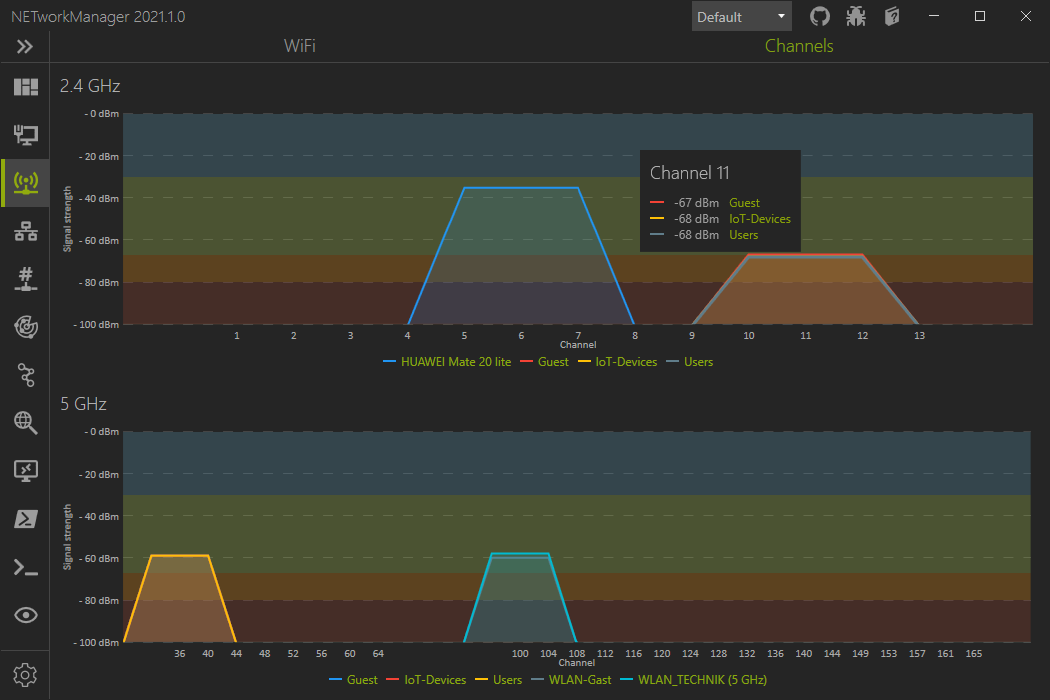
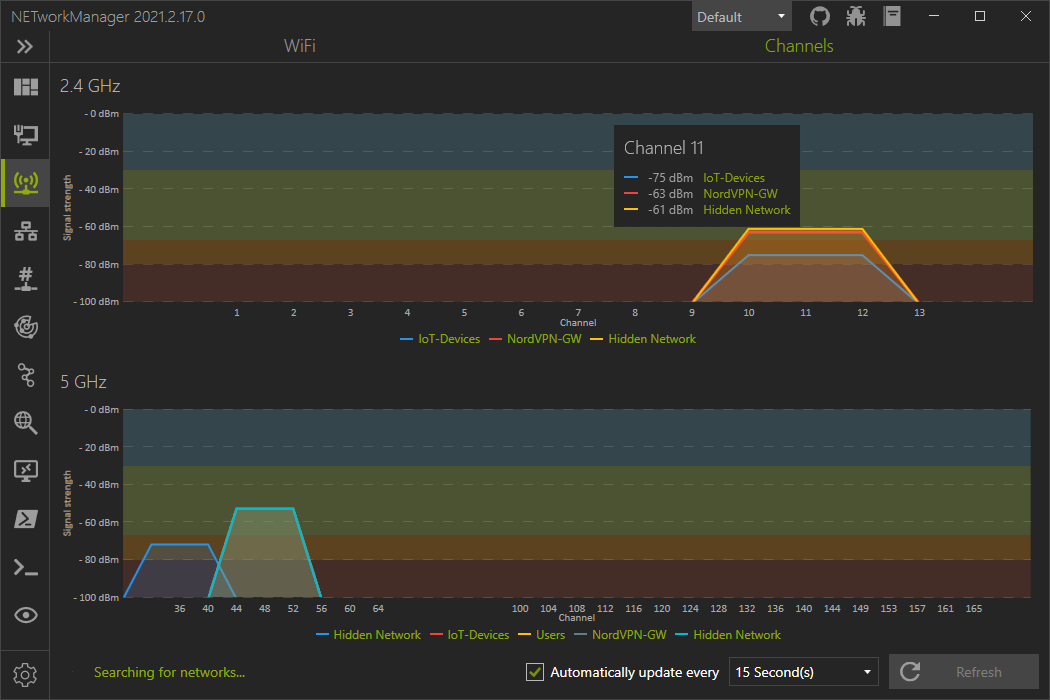
Issue/445 (#488)
* Fix #445 and Fix #486

* Fix #487

* Update docs and changelog

diff --git a/Source/NETworkManager/Views/WiFiView.xaml b/Source/NETworkManager/Views/WiFiView.xaml
@@ -152,24 +152,7 @@
                                     <ColumnDefinition Width="10" />
                                     <ColumnDefinition Width="Auto" />
                                 </Grid.ColumnDefinitions>
-                                <TextBlock Grid.Column="0" Grid.Row="0" Text="{x:Static localization:Strings.Networks}" Style="{StaticResource HeaderTextBlock}" Margin="0,0,0,0" />
-                                <WrapPanel Grid.Column="2" Grid.Row="0" Orientation="Horizontal" VerticalAlignment="Center" HorizontalAlignment="Right">
-                                    <CheckBox IsChecked="{Binding AutoRefresh}" Content="{x:Static localization:Strings.AutomaticallyUpdateEvery}" Margin="0,0,10,0"/>
-                                    <ComboBox ItemsSource="{Binding AutoRefreshTimes}" SelectedItem="{Binding SelectedAutoRefreshTime}" MinWidth="150">
-                                        <ComboBox.ItemTemplate>
-                                            <DataTemplate DataType="utilities:AutoRefreshTimeInfo">
-                                                <TextBlock>
-                                                    <TextBlock.Text>
-                                                        <MultiBinding StringFormat="{}{0} {1}">
-                                                            <Binding Path="Value" />
-                                                            <Binding Path="TimeUnit" Converter="{StaticResource AutoRefreshTimeToStringConverter}" />
-                                                        </MultiBinding>
-                                                    </TextBlock.Text>
-                                                </TextBlock>
-                                            </DataTemplate>
-                                        </ComboBox.ItemTemplate>
-                                    </ComboBox>
-                                </WrapPanel>
+                                <TextBlock Grid.Column="0" Grid.Row="0" Text="{x:Static localization:Strings.Networks}" Style="{StaticResource HeaderTextBlock}" Margin="0,0,0,0" />                                
                                 <CheckBox Grid.Column="4" Grid.Row="0" Content="{x:Static localization:Strings.GHz2dot4}" IsChecked="{Binding Show2dot4GHzNetworks}" />
                                 <CheckBox Grid.Column="6" Grid.Row="0" Content="{x:Static localization:Strings.GHz5}" IsChecked="{Binding Show5GHzNetworks}" />
                                 <TextBox x:Name="TextBoxSearch" Grid.Column="8" Grid.Row="0" Width="250" Text="{Binding Search, UpdateSourceTrigger=PropertyChanged}" Style="{StaticResource SearchTextBox}" />
@@ -301,7 +284,35 @@
                                 <TextBlock Text="{x:Static localization:Strings.SearchingForNetworksDots}" Style="{StaticResource MessageTextBlock}" />
                             </StackPanel>
                             <Grid Grid.Row="4">
-                                <Button Grid.Column="0" Grid.Row="0" Command="{Binding ScanNetworksCommand}" VerticalAlignment="Bottom" HorizontalAlignment="Right">
+                                <Grid.ColumnDefinitions>
+                                    <ColumnDefinition Width="Auto" />
+                                    <ColumnDefinition Width="10" />
+                                    <ColumnDefinition Width="*" />
+                                    <ColumnDefinition Width="10" />
+                                    <ColumnDefinition Width="Auto" />
+                                </Grid.ColumnDefinitions>
+                                <WrapPanel Grid.Column="0" Grid.Row="0" Orientation="Horizontal" VerticalAlignment="Center" HorizontalAlignment="Center">
+                                    <loadingIndicators:LoadingIndicator IsActive="True" Style="{DynamicResource LoadingIndicatorPulseStyle}" Visibility="{Binding IsBackgroundSearchRunning, Converter={StaticResource BooleanToVisibilityCollapsedConverter}}" Width="24" Height="24" VerticalAlignment="Center" SpeedRatio="1" Margin="0,0,10,0" />
+                                    <TextBlock Style="{StaticResource AccentTextBlock}" Visibility="{Binding DisplayStatusMessage, Converter={StaticResource BooleanToVisibilityCollapsedConverter}}" Text="{Binding StatusMessage}" VerticalAlignment="Center" />
+                                </WrapPanel>
+                                <WrapPanel Grid.Column="2" Grid.Row="0" Orientation="Horizontal" VerticalAlignment="Center" HorizontalAlignment="Right">
+                                    <CheckBox IsChecked="{Binding AutoRefresh}" Content="{x:Static localization:Strings.AutomaticallyUpdateEvery}" Margin="0,0,10,0"/>
+                                    <ComboBox ItemsSource="{Binding AutoRefreshTimes}" SelectedItem="{Binding SelectedAutoRefreshTime}" MinWidth="150">
+                                        <ComboBox.ItemTemplate>
+                                            <DataTemplate DataType="utilities:AutoRefreshTimeInfo">
+                                                <TextBlock>
+                                                    <TextBlock.Text>
+                                                        <MultiBinding StringFormat="{}{0} {1}">
+                                                            <Binding Path="Value" />
+                                                            <Binding Path="TimeUnit" Converter="{StaticResource AutoRefreshTimeToStringConverter}" />
+                                                        </MultiBinding>
+                                                    </TextBlock.Text>
+                                                </TextBlock>
+                                            </DataTemplate>
+                                        </ComboBox.ItemTemplate>
+                                    </ComboBox>
+                                </WrapPanel>
+                                <Button Grid.Column="4" Grid.Row="0" Command="{Binding ScanNetworksCommand}">
                                     <Button.Style>
                                         <Style TargetType="{x:Type Button}" BasedOn="{StaticResource ImageWithTextButton}">
                                             <Style.Triggers>
@@ -330,7 +341,6 @@
                                     </Button.Content>
                                 </Button>
                             </Grid>
-
                         </Grid>
                     </Grid>
                     <!-- Reload Adapter -->
@@ -369,6 +379,8 @@
                             <RowDefinition Height="20" />
                             <RowDefinition Height="Auto" />
                             <RowDefinition Height="*" />
+                            <RowDefinition Height="10" />
+                            <RowDefinition Height="Auto" />
                         </Grid.RowDefinitions>
                         <TextBlock Grid.Row="0" Text="{x:Static localization:Strings.GHz2dot4}" Style="{StaticResource HeaderTextBlock}" />
                         <liveChart:CartesianChart Grid.Row="1" Series="{Binding Radio1Series}" LegendLocation="Bottom" DisableAnimations="True">
@@ -454,6 +466,65 @@
                                 </liveChart:Axis>
                             </liveChart:CartesianChart.AxisY>
                         </liveChart:CartesianChart>
+
+                        <Grid Grid.Row="6">
+                            <Grid.ColumnDefinitions>
+                                <ColumnDefinition Width="Auto" />
+                                <ColumnDefinition Width="10" />
+                                <ColumnDefinition Width="*" />
+                                <ColumnDefinition Width="10" />
+                                <ColumnDefinition Width="Auto" />
+                            </Grid.ColumnDefinitions>
+                            <WrapPanel Grid.Column="0" Grid.Row="0" Orientation="Horizontal" VerticalAlignment="Center" HorizontalAlignment="Center">
+                                <loadingIndicators:LoadingIndicator IsActive="True" Style="{DynamicResource LoadingIndicatorPulseStyle}" Visibility="{Binding IsBackgroundSearchRunning, Converter={StaticResource BooleanToVisibilityCollapsedConverter}}" Width="24" Height="24" VerticalAlignment="Center" SpeedRatio="1" Margin="0,0,10,0" />
+                                <TextBlock Style="{StaticResource AccentTextBlock}" Visibility="{Binding DisplayStatusMessage, Converter={StaticResource BooleanToVisibilityCollapsedConverter}}" Text="{Binding StatusMessage}" VerticalAlignment="Center" />
+                            </WrapPanel>
+                            <WrapPanel Grid.Column="2" Grid.Row="0" Orientation="Horizontal" VerticalAlignment="Center" HorizontalAlignment="Right">
+                                <CheckBox IsChecked="{Binding AutoRefresh}" Content="{x:Static localization:Strings.AutomaticallyUpdateEvery}" Margin="0,0,10,0"/>
+                                <ComboBox ItemsSource="{Binding AutoRefreshTimes}" SelectedItem="{Binding SelectedAutoRefreshTime}" MinWidth="150">
+                                    <ComboBox.ItemTemplate>
+                                        <DataTemplate DataType="utilities:AutoRefreshTimeInfo">
+                                            <TextBlock>
+                                                <TextBlock.Text>
+                                                    <MultiBinding StringFormat="{}{0} {1}">
+                                                        <Binding Path="Value" />
+                                                        <Binding Path="TimeUnit" Converter="{StaticResource AutoRefreshTimeToStringConverter}" />
+                                                    </MultiBinding>
+                                                </TextBlock.Text>
+                                            </TextBlock>
+                                        </DataTemplate>
+                                    </ComboBox.ItemTemplate>
+                                </ComboBox>
+                            </WrapPanel>
+                            <Button Grid.Column="4" Grid.Row="0" Command="{Binding ScanNetworksCommand}">
+                                <Button.Style>
+                                    <Style TargetType="{x:Type Button}" BasedOn="{StaticResource ImageWithTextButton}">
+                                        <Style.Triggers>
+                                            <DataTrigger Binding="{Binding IsNetworksLoading}" Value="True">
+                                                <Setter Property="IsEnabled" Value="False" />
+                                            </DataTrigger>
+                                            <DataTrigger Binding="{Binding AutoRefresh}" Value="True">
+                                                <Setter Property="IsEnabled" Value="False" />
+                                            </DataTrigger>
+                                        </Style.Triggers>
+                                    </Style>
+                                </Button.Style>
+                                <Button.Content>
+                                    <Grid>
+                                        <Grid.ColumnDefinitions>
+                                            <ColumnDefinition Width="Auto" />
+                                            <ColumnDefinition Width="*" />
+                                        </Grid.ColumnDefinitions>
+                                        <Rectangle Width="20" Height="20" Fill="{DynamicResource MahApps.Brushes.Gray3}" Margin="10,5,0,5">
+                                            <Rectangle.OpacityMask>
+                                                <VisualBrush Stretch="Uniform" Visual="{iconPacks:Material Kind=Refresh}" />
+                                            </Rectangle.OpacityMask>
+                                        </Rectangle>
+                                        <TextBlock Grid.Column="1" Text="{x:Static localization:Strings.Refresh}" TextAlignment="Center" Margin="10,5" />
+                                    </Grid>
+                                </Button.Content>
+                            </Button>
+                        </Grid>
                     </Grid>
                     <!-- Reload Adapter -->
                     <StackPanel VerticalAlignment="Center" HorizontalAlignment="Center" Visibility="{Binding Adapters.Count, Converter={StaticResource IntZeroToVisibilityCollapsedConverter}}">
@@ -480,7 +551,6 @@
                         </StackPanel>
                     </StackPanel>
                     <!-- SDK.Contracts not found -->
-
                 </Grid>
             </TabItem>
         </TabControl>

diff --git a/Source/NETworkManager/ViewModels/WiFiViewModel.cs b/Source/NETworkManager/ViewModels/WiFiViewModel.cs
@@ -260,6 +260,47 @@ namespace NETworkManager.ViewModels
         public string[] Radio2Labels { get; set; } = new string[] { " ", " ", "36", "40", "44", "48", "52", "56", "60", "64", "", "", "", "", "100", "104", "108", "112", "116", "120", "124", "128", "132", "136", "140", "144", "149", "153", "157", "161", "165", " ", " " };
         public Func<double, string> FormatterdBm { get; set; } = value => $"- {100 - value} dBm"; // Reverse y-axis 0 to -100
 
+        private bool _displayStatusMessage;
+        public bool DisplayStatusMessage
+        {
+            get => _displayStatusMessage;
+            set
+            {
+                if (value == _displayStatusMessage)
+                    return;
+
+                _displayStatusMessage = value;
+                OnPropertyChanged();
+            }
+        }
+
+        private bool _isBackgroundSearchRunning;
+        public bool IsBackgroundSearchRunning
+        {
+            get => _isBackgroundSearchRunning;
+            set
+            {
+                if (value == _isBackgroundSearchRunning)
+                    return;
+
+                _isBackgroundSearchRunning = value;
+                OnPropertyChanged();
+            }
+        }
+
+        private string _statusMessage;
+        public string StatusMessage
+        {
+            get => _statusMessage;
+            set
+            {
+                if (value == _statusMessage)
+                    return;
+
+                _statusMessage = value;
+                OnPropertyChanged();
+            }
+        }
         #endregion
 
         #region Constructor, load settings
@@ -326,7 +367,7 @@ namespace NETworkManager.ViewModels
 
         private async void ScanNetworksAction()
         {
-            await ScanNetworks(SelectedAdapter.WiFiAdapter);
+            await ScanNetworks(SelectedAdapter.WiFiAdapter, true);
         }
         #endregion
 
@@ -381,19 +422,32 @@ namespace NETworkManager.ViewModels
             IsAdaptersLoading = false;
         }
 
-        private async Task ScanNetworks(WiFiAdapter adapter)
+        private async Task ScanNetworks(WiFiAdapter adapter, bool fromBackground = false)
         {
-            IsNetworksLoading = true;
+            if (fromBackground)
+            {
+                StatusMessage = Localization.Resources.Strings.SearchingForNetworksDots;
+                IsBackgroundSearchRunning = true;
+            }
+            else
+            {
+                DisplayStatusMessage = false;
+                IsNetworksLoading = true;
+            }
+
+            IEnumerable<WiFiNetworkInfo> networks = await WiFi.GetNetworksAsync(adapter);
 
             Networks.Clear();
 
             Radio1Series.Clear();
             Radio2Series.Clear();
 
-            IEnumerable<WiFiNetworkInfo> networks = await WiFi.GetNetworksAsync(adapter);
-
             foreach (var network in networks)
             {
+                // Identify hidden networks
+                if (string.IsNullOrEmpty(network.SSID))
+                    network.SSID = Localization.Resources.Strings.HiddenNetwork;
+
                 Networks.Add(network);
 
                 if (WiFi.ConvertChannelFrequencyToGigahertz(network.ChannelCenterFrequencyInKilohertz) < 5) // 2.4 GHz
@@ -402,7 +456,13 @@ namespace NETworkManager.ViewModels
                     AddNetworkToRadio2Chart(network);
             }
 
-            IsNetworksLoading = false;
+            DisplayStatusMessage = true;
+            StatusMessage = string.Format(Localization.Resources.Strings.LastScanAtX, DateTime.Now.ToLongTimeString());
+
+            if (fromBackground)
+                IsBackgroundSearchRunning = false;
+            else
+                IsNetworksLoading = false;
         }
 
         private ChartValues<double> GetDefaultChartValues(WiFi.Radio radio)
@@ -510,7 +570,7 @@ namespace NETworkManager.ViewModels
             _autoRefreshTimer.Stop();
 
             // Scan networks
-            await ScanNetworks(SelectedAdapter.WiFiAdapter);
+            await ScanNetworks(SelectedAdapter.WiFiAdapter, true);
 
             // Restart timer...
             _autoRefreshTimer.Start();

diff --git a/Source/NETworkManager.Localization/Resources/Strings.Designer.cs b/Source/NETworkManager.Localization/Resources/Strings.Designer.cs
@@ -3380,6 +3380,15 @@ namespace NETworkManager.Localization.Resources {
         }
         
         /// <summary>
+        ///   Looks up a localized string similar to Hidden Network.
+        /// </summary>
+        public static string HiddenNetwork {
+            get {
+                return ResourceManager.GetString("HiddenNetwork", resourceCulture);
+            }
+        }
+        
+        /// <summary>
         ///   Looks up a localized string similar to Hide.
         /// </summary>
         public static string Hide {
@@ -3790,6 +3799,15 @@ namespace NETworkManager.Localization.Resources {
         public static string Language {
             get {
                 return ResourceManager.GetString("Language", resourceCulture);
+            }
+        }
+        
+        /// <summary>
+        ///   Looks up a localized string similar to Last scan at {0}.
+        /// </summary>
+        public static string LastScanAtX {
+            get {
+                return ResourceManager.GetString("LastScanAtX", resourceCulture);
             }
         }
         

diff --git a/docs/Application/03_WiFi.md b/docs/Application/03_WiFi.md
@@ -10,7 +10,7 @@ permalink: /Application/WiFi
 # WiFi
 The WiFi shows all available wireless networks with additional details such as channel, signal strength or the type of encryption used.
 
-Hidden wireless networks are not displayed. 
+Hidden wireless networks are displayed as `Hidden Network`. 
 
 ## WiFi
 
@@ -22,7 +22,7 @@ Due to limitations of the `Windows.Devices.WiFi` API the channel bandwidth canno
 
 ## Channels
 
-In the "Channels" view, all wireless networks are displayed graphically, with channel and signal strength. This can be useful to identify overlapping wireless networks that are not from the same access point.
+In the channels view, all wireless networks are displayed graphically, with channel and signal strength. This can be useful to identify overlapping wireless networks that are not from the same access point.
 
 You can move the mouse over the channel to display all wireless networks that occupy this channel.
 

diff --git a/docs/04_Changelog.md b/docs/04_Changelog.md
@@ -21,10 +21,13 @@ Date: **xx.xx.2021**
 
 
 ## Improvements
+- WiFi - Refresh network in background when button is clicked or autorefresh is enabled [#445](https://github.com/BornToBeRoot/NETworkManager/issues/445){:target="_blank"}
+- WiFi - Display the SSID from hidden networks as "Hidden Network". This is the same way Windows displays them. [#487](https://github.com/BornToBeRoot/NETworkManager/issues/487){:target="_blank"}
+- WiFi > Channel - Add refresh and autorefresh button/checkbox [#486](https://github.com/BornToBeRoot/NETworkManager/issues/486){:target="_blank"}
 - Host added to profiles view 
 
 ## Bugfixes
-
+- Network Interface - Disable `Add IPv4 address...` button if network adapter is not connected [#484](https://github.com/BornToBeRoot/NETworkManager/issues/484){:target="_blank"}
 
 ## Other
 
